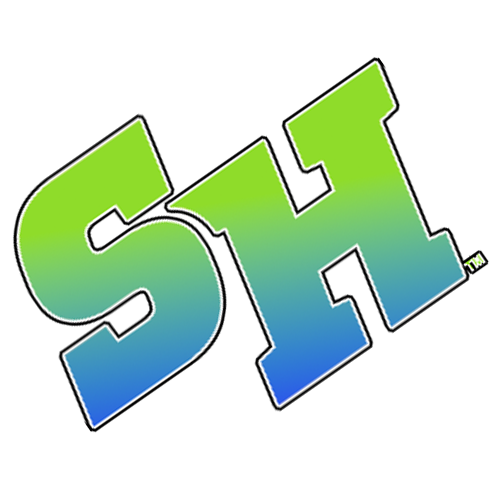
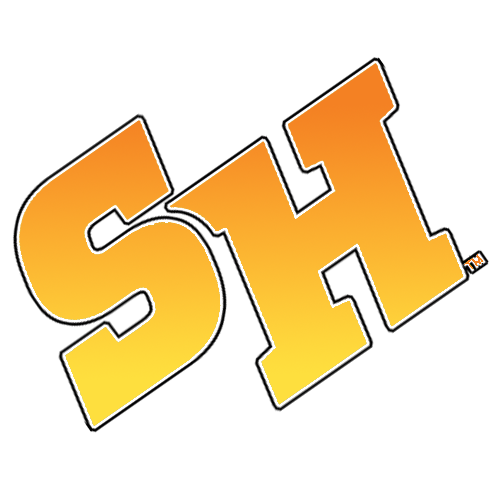
changed SH DINO pic color in PS and changed the size and position

Changed region(s): [[0.03, 0.12, 0.96, 0.87]]

diff --git a/styles/main.css b/styles/main.css
@@ -17,9 +17,9 @@ body {
     box-shadow: 5px 5px 0 0; 
     background: url(../images/SH\ DINO.png) right repeat-y;
     background-repeat: repeat-y;
-    background-position: calc(50% + 400px) top;
+    background-position: calc(50% + 375px) top;
     background-attachment: fixed;
-    background-size: 300px auto;
+    background-size: 350px auto;
     background-color: white;
     }
 
